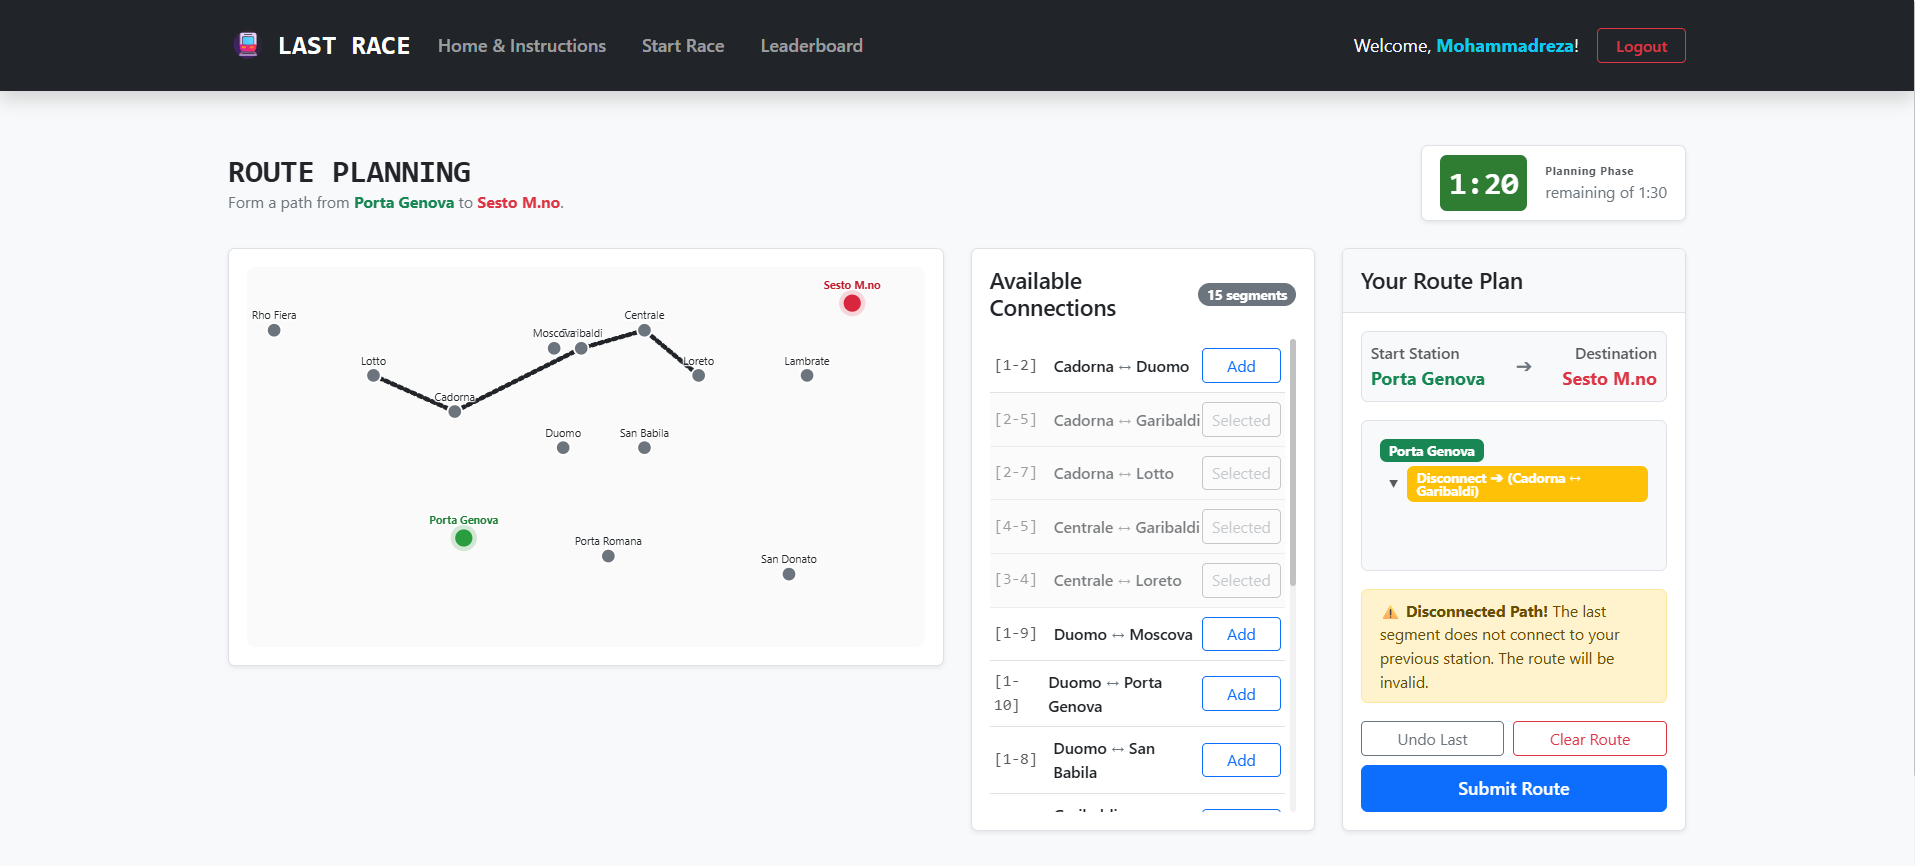
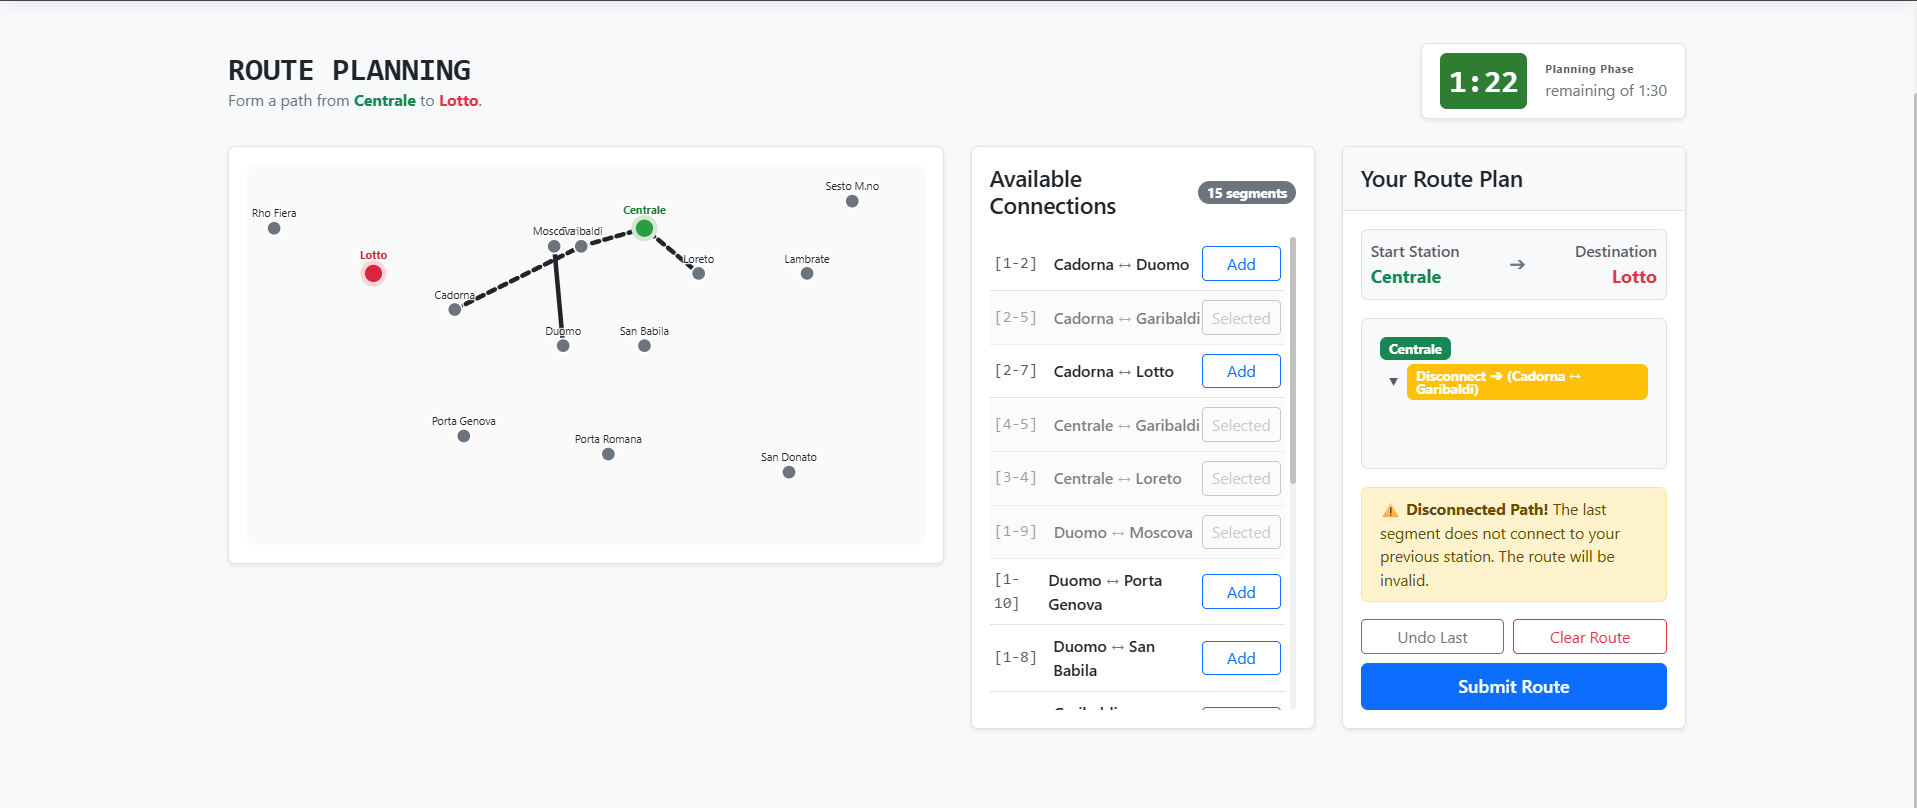
Added Animation and Changed Screenshots + MD file

diff --git a/client/src/index.css b/client/src/index.css
@@ -102,11 +102,150 @@ body {
 }
 
 /* Map hover transitions for dots and legend entries */
-polyline, circle, line {
+polyline, circle {
   transition: all 0.3s ease;
 }
 
 circle:hover {
   filter: brightness(1.1);
   cursor: pointer;
+}
+
+/* ===== SEGMENT SELECTION ANIMATIONS ===== */
+
+/* Route line draw-in effect on the SVG map */
+.route-segment-line {
+  animation: drawSegment 0.5s ease-out forwards;
+  stroke-dasharray: 1000;
+  stroke-dashoffset: 1000;
+}
+
+@keyframes drawSegment {
+  to {
+    stroke-dashoffset: 0;
+  }
+}
+
+/* Flowing dashes along the active route path */
+.route-segment-line-animated {
+  stroke-dasharray: 8 6;
+  animation: flowDash 1.2s linear infinite;
+}
+
+@keyframes flowDash {
+  to {
+    stroke-dashoffset: -28;
+  }
+}
+
+/* Segment list item selection flash */
+.segment-item-selected {
+  animation: segmentFlash 0.45s ease-out;
+}
+
+@keyframes segmentFlash {
+  0% {
+    background-color: rgba(13, 110, 253, 0.18);
+    transform: scale(1.02);
+  }
+  50% {
+    background-color: rgba(13, 110, 253, 0.08);
+  }
+  100% {
+    background-color: #f8f9fa;
+    transform: scale(1);
+  }
+}
+
+/* Segment list item hover enhancement */
+.segment-item-available {
+  transition: background-color 0.2s ease, transform 0.15s ease, box-shadow 0.2s ease;
+}
+
+.segment-item-available:hover {
+  background-color: rgba(13, 110, 253, 0.04) !important;
+  transform: translateX(2px);
+  box-shadow: inset 3px 0 0 0 #0d6efd;
+}
+
+/* Route chain node entrance animation */
+.route-chain-node {
+  animation: nodeSlideIn 0.35s cubic-bezier(0.34, 1.56, 0.64, 1) forwards;
+  opacity: 0;
+}
+
+@keyframes nodeSlideIn {
+  from {
+    opacity: 0;
+    transform: translateX(-14px) scale(0.85);
+  }
+  to {
+    opacity: 1;
+    transform: translateX(0) scale(1);
+  }
+}
+
+/* Connector arrow between route chain nodes */
+.route-chain-connector {
+  animation: connectorDrop 0.25s ease-out forwards;
+  opacity: 0;
+}
+
+@keyframes connectorDrop {
+  from {
+    opacity: 0;
+    transform: translateY(-6px);
+  }
+  to {
+    opacity: 1;
+    transform: translateY(0);
+  }
+}
+
+/* Glow pulse for the current endpoint station on the map */
+.station-current-glow {
+  animation: stationPulse 1.5s ease-in-out infinite alternate;
+}
+
+@keyframes stationPulse {
+  from {
+    filter: drop-shadow(0 0 3px rgba(13, 110, 253, 0.4));
+  }
+  to {
+    filter: drop-shadow(0 0 10px rgba(13, 110, 253, 0.85));
+  }
+}
+
+/* Path tip info box animate-in on endpoint change */
+.path-tip-animate {
+  animation: tipSlideIn 0.3s ease-out forwards;
+}
+
+@keyframes tipSlideIn {
+  from {
+    opacity: 0;
+    transform: translateY(-8px);
+    max-height: 0;
+  }
+  to {
+    opacity: 1;
+    transform: translateY(0);
+    max-height: 60px;
+  }
+}
+
+/* Route status badge transition */
+.route-status-animate {
+  animation: statusFade 0.35s ease-out forwards;
+}
+
+@keyframes statusFade {
+  from {
+    opacity: 0;
+    transform: scale(0.96);
+  }
+  to {
+    opacity: 1;
+    transform: scale(1);
+  }
 }

diff --git a/client/src/components/NetworkMap.jsx b/client/src/components/NetworkMap.jsx
@@ -77,24 +77,39 @@ export default function NetworkMap({
         })}
 
         {/* 2. DRAW CURRENT PLANNED PATH SECTIONS (Planning phase) */}
-        {!showLines && activePathLines.map((line, idx) => (
-          <line
-            key={`active-line-${idx}`}
-            x1={line.x1}
-            y1={line.y1}
-            x2={line.x2}
-            y2={line.y2}
-            stroke="#212529"
-            strokeWidth="5"
-            strokeDasharray="4 4"
-            strokeLinecap="round"
-          />
-        ))}
+        {!showLines && activePathLines.map((seg, idx) => {
+          const isLast = idx === activePathLines.length - 1;
+          return (
+            <line
+              key={`active-line-${idx}-${seg.x1}-${seg.y1}-${seg.x2}-${seg.y2}`}
+              x1={seg.x1}
+              y1={seg.y1}
+              x2={seg.x2}
+              y2={seg.y2}
+              stroke="#212529"
+              strokeWidth="5"
+              strokeLinecap="round"
+              className={isLast ? 'route-segment-line' : 'route-segment-line-animated'}
+            />
+          );
+        })}
 
         {/* 3. DRAW STATION DOTS */}
         {stations.map(station => {
           const isStart = startStation && startStation.id === station.id;
           const isDest = destStation && destStation.id === station.id;
+
+          // Check if this station is the current endpoint of the built route
+          const isCurrentEndpoint = !showLines && routeSegments.length > 0 && (() => {
+            let curr = startStation?.id;
+            for (const key of routeSegments) {
+              const parts = key.split('-').map(Number);
+              if (parts[0] === curr) curr = parts[1];
+              else if (parts[1] === curr) curr = parts[0];
+              else { curr = null; break; }
+            }
+            return curr === station.id && !isStart && !isDest;
+          })();
 
           // Determine dot style
           let circleColor = '#6c757d';
@@ -112,10 +127,15 @@ export default function NetworkMap({
             r = 12;
             strokeColor = '#f5d6da';
             strokeWidth = 5;
+          } else if (isCurrentEndpoint) {
+            circleColor = '#0d6efd'; // Blue for current endpoint
+            r = 11;
+            strokeColor = '#cfe2ff';
+            strokeWidth = 4;
           }
 
           return (
-            <g key={station.id}>
+            <g key={station.id} className={isCurrentEndpoint ? 'station-current-glow' : ''}>
               {/* Station shadow/glow circle */}
               <circle
                 cx={station.x}
@@ -133,8 +153,8 @@ export default function NetworkMap({
                 y={station.y - r - 4}
                 textAnchor="middle"
                 fontSize="12"
-                fontWeight={isStart || isDest ? 'bold' : 'normal'}
-                fill={isStart ? '#1e7e34' : isDest ? '#bd2130' : '#212529'}
+                fontWeight={isStart || isDest || isCurrentEndpoint ? 'bold' : 'normal'}
+                fill={isStart ? '#1e7e34' : isDest ? '#bd2130' : isCurrentEndpoint ? '#0d6efd' : '#212529'}
                 style={{
                   textShadow: '1px 1px 1px #fff, -1px -1px 1px #fff, 1px -1px 1px #fff, -1px 1px 1px #fff',
                   userSelect: 'none'

diff --git a/client/src/components/RoutePanel.jsx b/client/src/components/RoutePanel.jsx
@@ -98,8 +98,18 @@ export default function RoutePanel({
 
                 return (
                   <div key={idx} className="d-flex align-items-center gap-2">
-                    {idx > 0 && <div className="text-muted ps-2 py-0 my-0" style={{ fontSize: '10px' }}>▼</div>}
-                    <div className="d-flex align-items-center gap-2 w-100">
+                    {idx > 0 && (
+                      <div
+                        className="text-muted ps-2 py-0 my-0 route-chain-connector"
+                        style={{ fontSize: '10px', animationDelay: `${idx * 0.08}s` }}
+                      >
+                        ▼
+                      </div>
+                    )}
+                    <div
+                      className="d-flex align-items-center gap-2 w-100 route-chain-node"
+                      style={{ animationDelay: `${idx * 0.08}s` }}
+                    >
                       <Badge bg={badgeColor} className="py-1 px-2 text-wrap text-start">
                         {stationName}
                       </Badge>
@@ -118,17 +128,17 @@ export default function RoutePanel({
         {/* Dynamic Status Badges */}
         <div className="mb-3">
           {pathInfo.disconnected && (
-            <div className="alert alert-warning py-2 px-3 small mb-0">
+            <div className="alert alert-warning py-2 px-3 small mb-0 route-status-animate" key="disconnected">
               ⚠️ <strong>Disconnected Path!</strong> The last segment does not connect to your previous station. The route will be invalid.
             </div>
           )}
           {!pathInfo.disconnected && hasRoute && !reachedDest && (
-            <div className="alert alert-secondary py-2 px-3 small mb-0">
+            <div className="alert alert-secondary py-2 px-3 small mb-0 route-status-animate" key="in-progress">
               ℹ️ <strong>In Progress:</strong> Keep chaining segments to reach <strong>{destStation?.name}</strong>.
             </div>
           )}
           {!pathInfo.disconnected && reachedDest && (
-            <div className="alert alert-success py-2 px-3 small mb-0">
+            <div className="alert alert-success py-2 px-3 small mb-0 route-status-animate" key="connected">
               ✅ <strong>Path Connected!</strong> Route reaches the destination. Ready to submit!
             </div>
           )}

diff --git a/client/src/components/SegmentList.jsx b/client/src/components/SegmentList.jsx
@@ -26,7 +26,7 @@ export default function SegmentList({
       </div>
 
       {currentEndpointName && (
-        <div className="alert alert-info py-2 px-3 mb-3 small">
+        <div className="alert alert-info py-2 px-3 mb-3 small path-tip-animate" key={currentEndpointName}>
           <strong>Path tip:</strong> Chaining from <strong>{currentEndpointName}</strong>.
         </div>
       )}
@@ -43,7 +43,9 @@ export default function SegmentList({
             return (
               <ListGroup.Item
                 key={seg.id}
-                className="d-flex justify-content-between align-items-center py-2 px-1 border-bottom"
+                className={`d-flex justify-content-between align-items-center py-2 px-1 border-bottom ${
+                  isUsed ? 'segment-item-selected' : 'segment-item-available'
+                }`}
                 style={{
                   backgroundColor: isUsed ? '#f8f9fa' : 'transparent',
                   opacity: isUsed ? 0.6 : 1

diff --git a/README.md b/README.md
@@ -152,3 +152,4 @@ Used AI (Mostly Gemeni and Claude) for planning the structure and best practices
 Utilized AI for debugging and Testing the app and check the final version codebase with AI tools.
 Created Documentation, Seed file, DB structure by getting assist from AI tools.
 Utilizing AI for potential desing and some custom css and better usage of Bootstrap components.
+Usage of AI in adding some css animations for the game page.